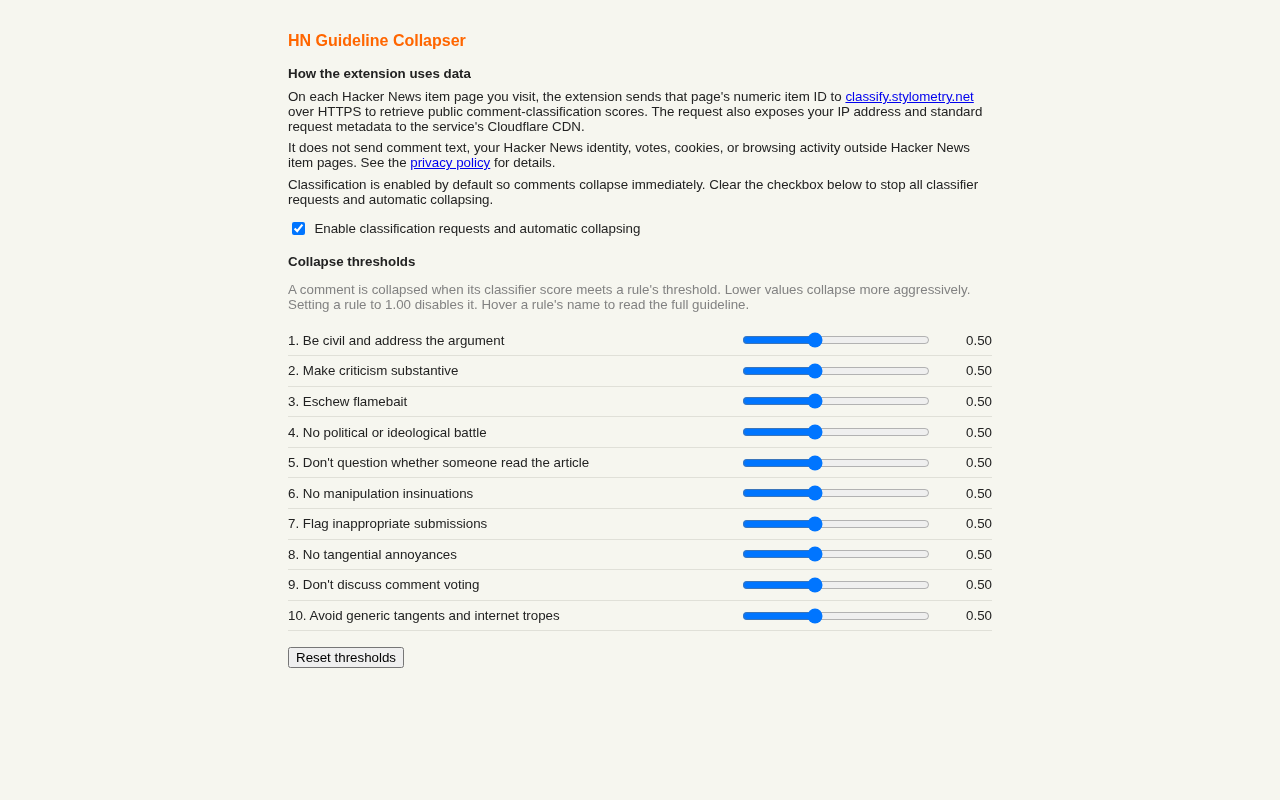
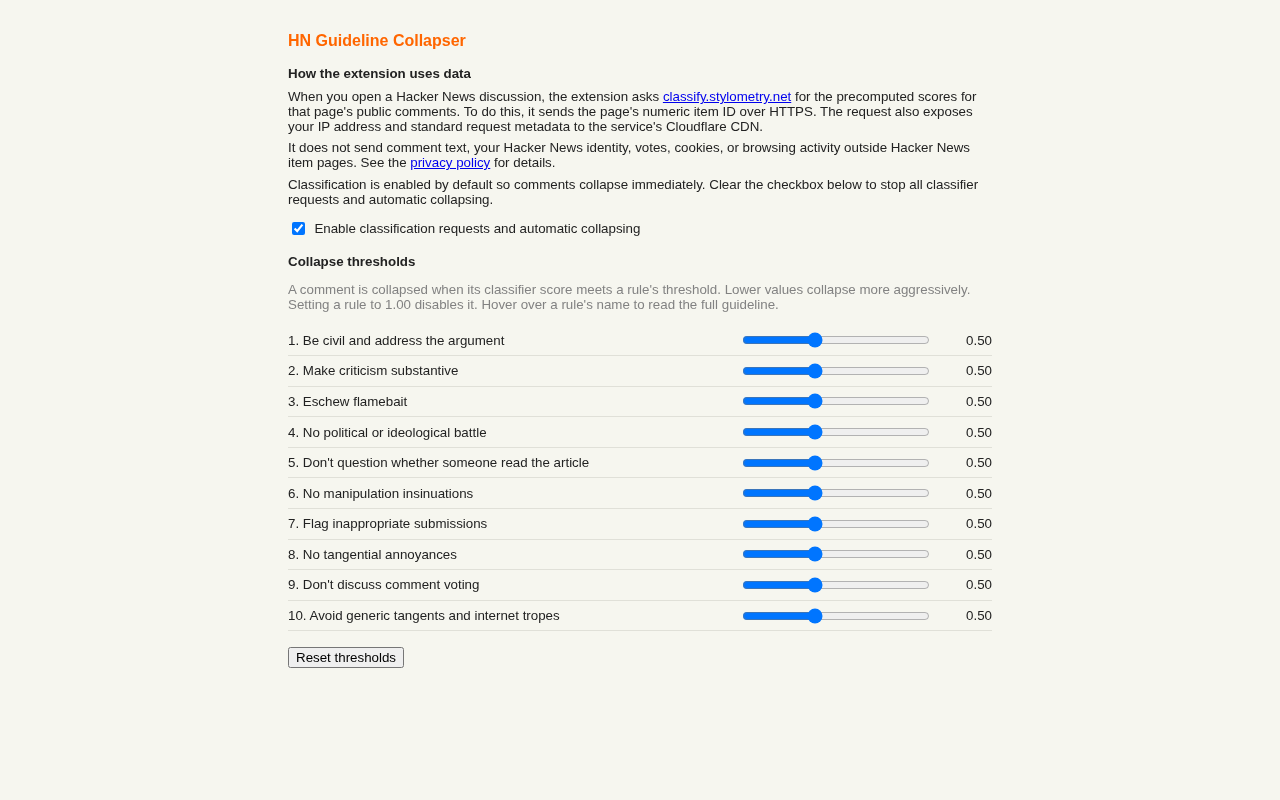
make wording more clear

Changed region(s): [[0.2188, 0.0938, 0.7812, 0.1875], [0.4062, 0.375, 0.5938, 0.4062]]

diff --git a/options.html b/options.html
@@ -93,17 +93,17 @@
       <section class="notice" aria-labelledby="enable-heading">
         <h2 id="enable-heading">How the extension uses data</h2>
         <p>
-          On each Hacker News item page you visit, the extension sends that
-          page's numeric item ID to
+          When you open a Hacker News discussion, the extension asks
           <a
             href="https://classify.stylometry.net/about"
             target="_blank"
             rel="noopener noreferrer"
             >classify.stylometry.net</a
           >
-          over HTTPS to retrieve public comment-classification scores. The
-          request also exposes your IP address and standard request metadata to
-          the service's Cloudflare CDN.
+          for the precomputed scores for that page's public comments. To do
+          this, it sends the page's numeric item ID over HTTPS. The request also
+          exposes your IP address and standard request metadata to the service's
+          Cloudflare CDN.
         </p>
         <p>
           It does not send comment text, your Hacker News identity, votes,
@@ -132,7 +132,7 @@
         <p class="hint">
           A comment is collapsed when its classifier score meets a rule's
           threshold. Lower values collapse more aggressively. Setting a rule to
-          1.00 disables it. Hover a rule's name to read the full guideline.
+          1.00 disables it. Hover over a rule's name to read the full guideline.
         </p>
         <div id="rules"></div>
       </section>
